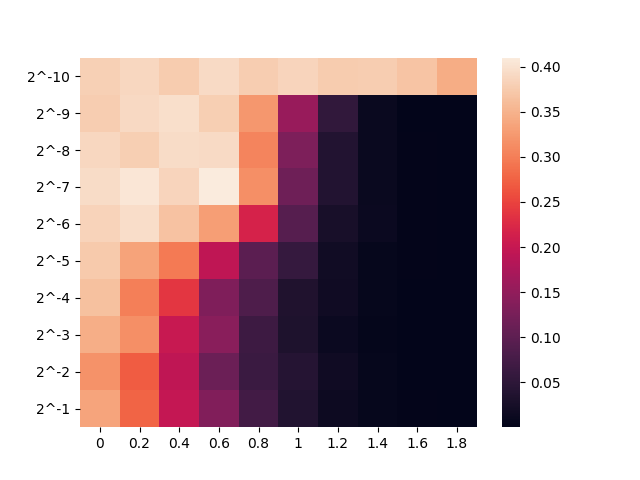
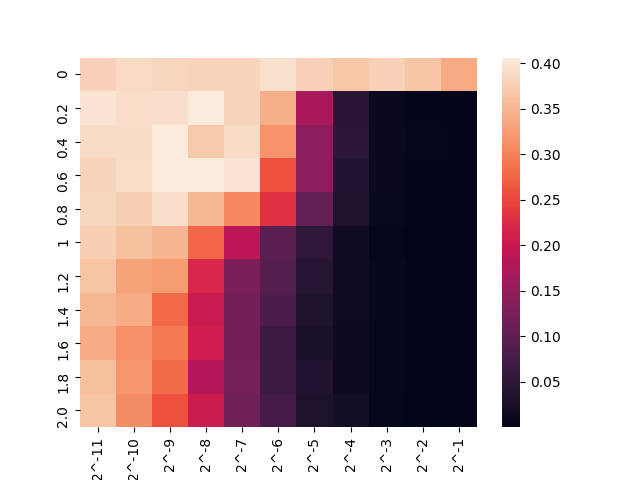
force to save experiment file

diff --git a/heatmap_bytime.py b/heatmap_bytime.py
@@ -1,0 +1,46 @@
+'''
+This program will read the experiment files (generated by data_gathering.py with save_experiment option)
+and generate the heatmap at specific time t
+
+Requirements: pandas, numpy, matplotlib, seaborn
+'''
+import pandas as pd
+import numpy as np
+import matplotlib.pyplot as plt
+import seaborn as sns
+for p in range(1,100):
+    #change this to change the time
+    t = p*100
+    n = 11 #number of experiment on exp n_m
+    m = 11 
+
+    matrix = np.zeros((n,m))
+    #change the range based on the number of experiment
+    for i in range(1,n+1):
+        for j in range(1,m+1):
+            data = pd.read_csv('exp'+str(i)+'_'+str(j)+'.csv', header = None).T #transpose the dataframe
+            data['mean'] = data.mean(axis=1) #create mean column,change this line to change the criteria
+            matrix[i-1][j-1] = data.loc[(int(t/10)-1),'mean']
+            del data #for freeing memory
+
+    matrix = np.fliplr(matrix) #flip for sensible heatmap
+
+    #change this to change x and y axis of heatmap
+    x = ['2^-'+str(k) for k in range(1,m+1)]
+    y = [round(2-0.2*k,1) for k in range(0,n)]
+    x = np.flip(x)
+    y = np.flip(y)
+    plot = sns.heatmap(matrix, xticklabels= x, yticklabels=y,vmin = 0, vmax = 1.0)
+    #change title here
+    plt.title("Food collected per good ants at time t = "+str(t) + ' (n = 30, N = 1024)', fontsize =16)
+    #change x axis here
+    plt.xlabel('Proportion of malicious ants', fontsize = 10)
+    #change y axis here
+    plt.ylabel('Relative Fake pheromone intensity', fontsize = 10)
+
+    #plt.tight_layout()
+    #change this to change name. The default name is Heatmap_[time].png
+    name = './Heatmap_'+str(t)+'.png'
+    plot.figure.savefig(name, bbox_inches="tight")
+    plot.figure.clf()
+    del plot

diff --git a/data_gathering.py b/data_gathering.py
@@ -14,9 +14,9 @@ import numpy as np
 #import time
 
 #change these initial condition
-save_experiment = False
+save_experiment = True
 timestep = 10000
-iteration = 100
+iteration = 30
 mal_fraction = 0.5
 mal_timer = 100
 mal_focus = "F"
@@ -44,19 +44,19 @@ for i in range(11):
         #what we want is something like this column = [exp1, exp2, exp3, exp4, ...], each row represents the time step
         #with this format, we can, ideally, get n csv files (where n is number of experiments required to be done by another variable) and merge it again.
         f.close()
-        data = pd.read_csv(name, header=None).T #this will transpose the dataframe
-        #create average column
-        data['mean'] = data.mean(axis=1)
+        #data = pd.read_csv(name, header=None).T #this will transpose the dataframe
+        #create average column. note that the proof of normality is required for using this central of tendency.
+        #data['mean'] = data.mean(axis=1)
         #sample the data at t = timestep/2 (note that bin size is 10).
-        matrix[i][j] = data.loc[int(timestep/20),'mean']
+        #matrix[i][j] = data.loc[int(timestep/20),'mean']
         #print(str(data.loc[int(timestep/20),'mean'])+'\n')
         #update the value
         mal_fraction = mal_fraction/2
-        del data
+        #del data
         
     #update the value
     fake_intensity = fake_intensity + 0.2
-matrix = np.fliplr(matrix)
+#matrix = np.fliplr(matrix)
 
 # data will looks like this
 # [i = 0]       0.42   0.12         2.13
@@ -64,4 +64,4 @@ matrix = np.fliplr(matrix)
 #   ...
 # [i = i_max]
 #             [j = 1] [j = 2] ... [j = j_max]
-np.save('./data.npy', matrix)
+#np.save('./data.npy', matrix)

diff --git a/heatmap.py b/heatmap.py
@@ -6,9 +6,9 @@ data = np.load('./data.npy')
 #data = np.fliplr(data)
 print(data.shape)
 #heatmap axis
-y = [0,0.2,0.4,0.6,0.8,1,1.2,1.4,1.6,1.8]
-x = ['2^-'+str(n) for n in range(1,11)]
-#y = np.flip(y)
-x = np.flip(x)
+x = [0,0.2,0.4,0.6,0.8,1,1.2,1.4,1.6,1.8,2.0]
+y = ['2^-'+str(n) for n in range(1,12)]
+y = np.flip(y)
+#x = np.flip(x)
 plot = sns.heatmap(data,xticklabels = y, yticklabels = x)
 plot.figure.savefig("heatmap.png")
